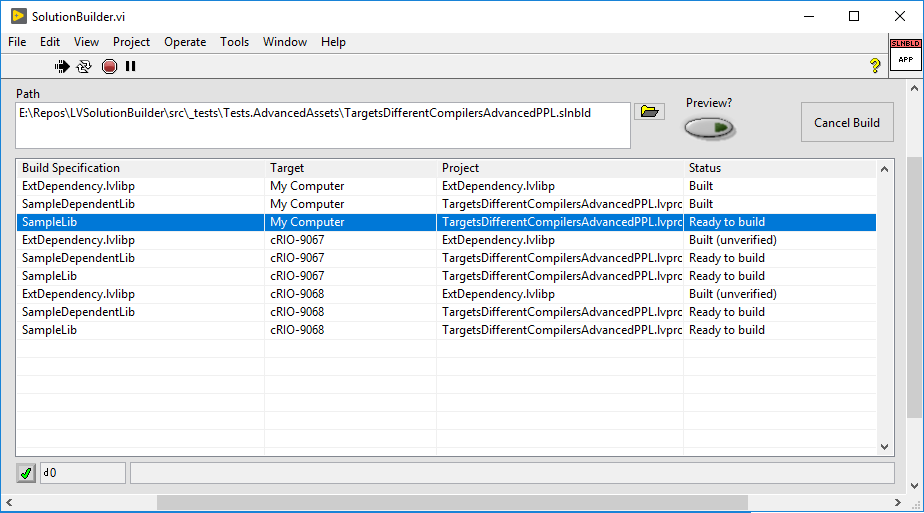
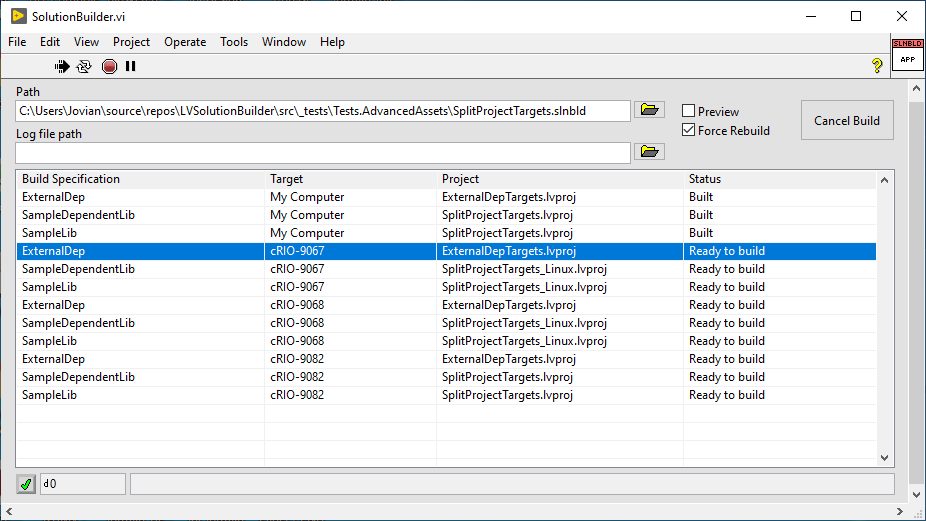
Updating the readme

Changed region(s): [[0.0, 0.0, 1.0, 1.0], [0.9697, 0.0, 1.0, 0.0312], [0.9091, 0.0, 0.9394, 0.0312]]

diff --git a/README.md b/README.md
@@ -57,7 +57,11 @@ Support building the Build Specifications specified under different Targets with
 
 Support replacing a PPL with a Target-specific PPL at build-time.
 
-</td><td>1.0.1</td></tr>
+</td><td>1.0.1</td></tr><tr><td>
+
+Incremental builds. When building, a `.incrb` file is generated next to the project/solution file keeping track of files that last built.
+
+</td><td>1.0.2</td></tr>
 </table>
 
 ## Minimum Compatible LabVIEW Version
@@ -303,7 +307,13 @@ Solution Builder can be operated on through its user interface or [by command-li
 <tr><td>C:\This\Folder\solution file.slnfile</td><td>A file (the extension is ignored) listing the projects to build and any associated pre-built PPLs needed to build the projects.)</td></tr>
 </table>
 
-* __Preview?__ : Will run the algorithm to determine the dependency build order, but will not execute the projects' build specification.
+* __Log file path__ : Path to the file containing log information regarding decisions to rebuild an item or skip it because a previous build was deemed sufficient.
+
+* __Preview__ : Will run the algorithm to determine the dependency build order, but will not execute the projects' build specification.
+
+* __Force Rebuild__ : Ignores the incremental build information from previous runs and rebuilds everything.
+
+* __Cancel Build__ : Aborts a build, but waits for the current item to complete.
 
 * __Results Table__ : Displays the found build specification outputs and show their build status.
 
@@ -354,15 +364,32 @@ Valid formats are as follows and the path can be formated similar to ProjectPath
 Invoking the packed tool from its LLB requires a command similar to the following:
 
 ```
-Path_to_repo> "C:\program files\national instruments\LabVIEW 2020\LabVIEW.exe" <path_to_llb_obj>\SolutionBuilder.llb\SolutionBuilder.vi -- -Path path_to_some_project\myProject.lvproj -Quiet -AddPackedLib PATH=path_to_some_ppl\TheFile.lvlibp::NAME=TheOriginalLib.lvlib::TARGET=cRIO-9068
+Path_to_repo> "C:\program files\national instruments\LabVIEW 2020\LabVIEW.exe" <path_to_llb_obj>\SolutionBuilder.llb\SolutionBuilder.vi -- -Path <path_to_some_project>\myProject.lvproj -LogFile <path_to_some_log>\file.log -Quiet -AddPackedLib PATH=<path_to_some_ppl>\TheFile.lvlibp::NAME=TheOriginalLib.lvlib::TARGET=cRIO-9068 -Rebuild
 ```
 
 The accepted command-line arguments are:
 
-- -Path: Path to the folder, project, or solution file. Refer to the Path token section for details.
-- -AddPackedLib: Path to a pre-built PPL. Refer to the AddPackedLib token section for details.
-- -Quiet: Auto close once build as completed (should not be used with -Preview)
-- -Preview: Does not build but instead displays the list and build order of each build specification. Recommended for validation.
+- `-Path` : Path to the folder, project, or solution file. Refer to the Path token section for details.
+- `-LogFile` : Path to the file containing log information regarding decisions to rebuild an item or skip it because a previous build was deemed sufficient.
+- `-AddPackedLib` : Path to a pre-built PPL. Refer to the AddPackedLib token section for details.
+- `-Quiet` : Auto close once build as completed (should not be used with -Preview)
+- `-Preview` : Does not build but instead displays the list and build order of each build specification. Recommended for validation.
+- `-Rebuild` : Ignores the incremental build information from previous runs and rebuilds everything.
+
+### Incremental Builds
+
+Solution Builder supports some incremental builds. This means that the tool will do its best to determine if a Project Build Specification needs to rebuild. The algorithm to determine if an build specifation needs to rebuild is as follows:
+
+1. The `Rebuild` flag is set to `true` either from the command line or from the UI.
+2. The destination of the build output does not exist.
+3. The source files associated with the build specification have changed.
+4. Static dependencies of the source files associated with the build specification have changed.
+
+> Note: the tool determines that a source file has changed if the MD5 hash of a file does not match its previous hash. Hashes from previous runs are stored in a `.incrb` file next to the project/solution file.
+
+#### **Limitations of Incremental Builds**
+
+Source distribution currently do not know before they build which source files they are associated with. As a result, source distributions always rebuild.
 
 ## How to Build
 
